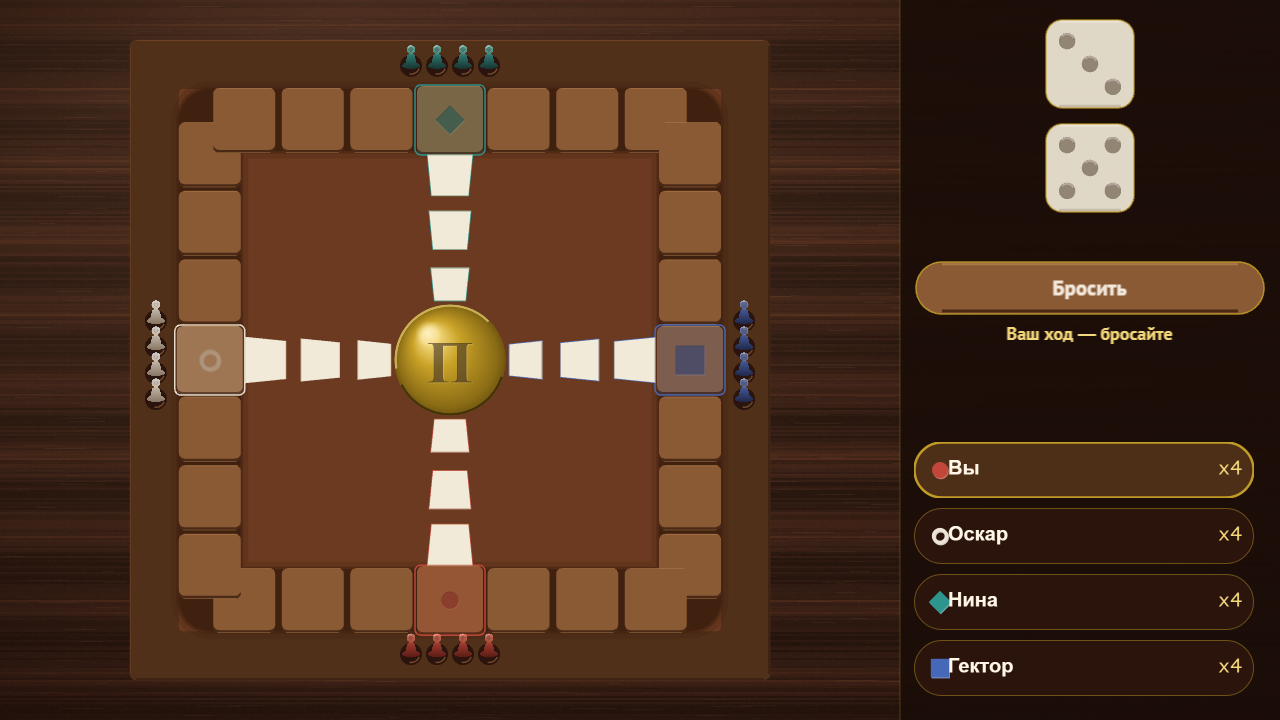
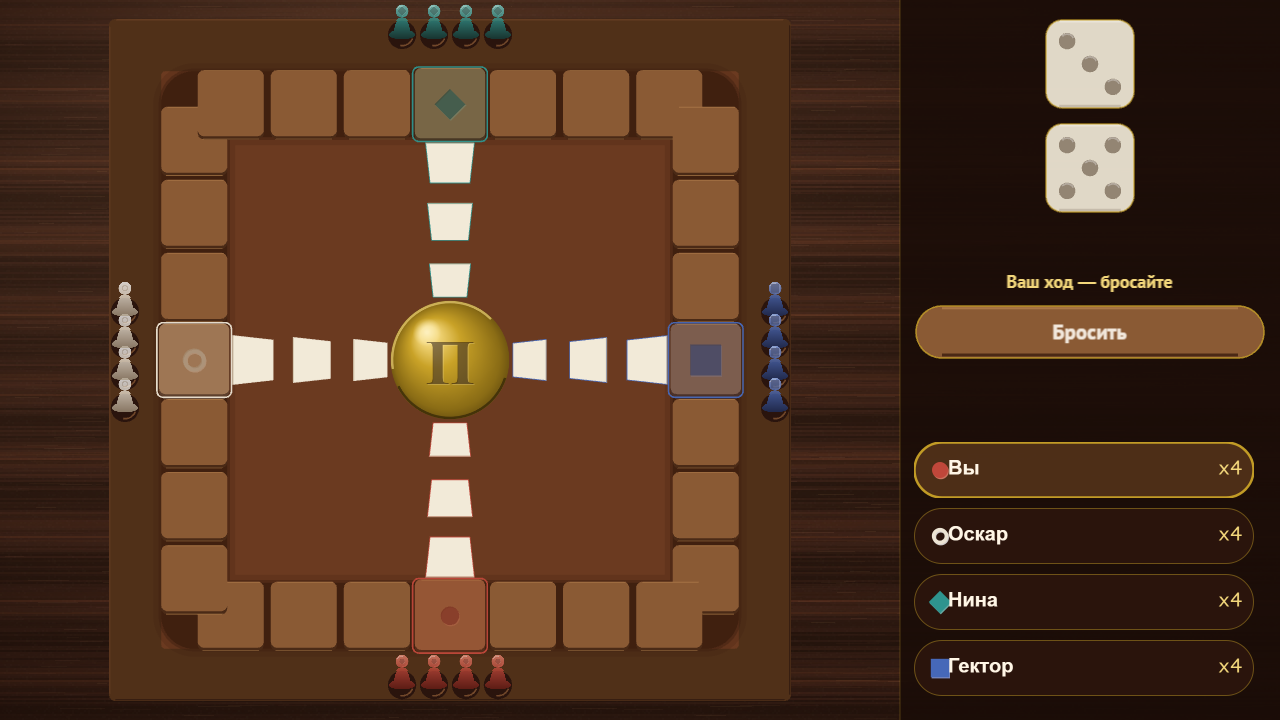
web: review round 3 - board fill 0.98, bench slots Ø53 at R+130, three-step tails, panel reading order (#6)

diff --git a/web/src/render/board-view.ts b/web/src/render/board-view.ts
@@ -172,10 +172,10 @@ export function createBoardView(initial: BoardGeometry, textures: GameTextures):
   }
 
   /**
-   * §4 home tails: three separate porcelain steps per tail (104 → 96 → 88),
-   * narrowing toward the centre, each capped inside the corner tile's inner
-   * edge (design 414) and clear of the medallion (design 118) so the three
-   * cells read distinctly.
+   * §4 home tails: exactly THREE porcelain steps per tail (104 → 96 → 88),
+   * narrowing toward the centre. Spans ±0.36 of the step size leave visible
+   * grooves between steps; the first starts inboard of the corner tile's inner
+   * edge (design 414), the last clears the medallion (design 118).
    */
   function drawHomes(): void {
     const { scale: k, center } = geometry;
@@ -185,13 +185,13 @@ export function createBoardView(initial: BoardGeometry, textures: GameTextures):
       const look = PLAYERS[homes[0].playerIndex];
       for (const home of homes) {
         points.set(home.cellIndex, { x: home.x, y: home.y });
-        addShadow(home.x, home.y, home.size * 1.02, 0.18);
+        addShadow(home.x, home.y, home.size * 0.98, 0.16);
         const d = Math.hypot(home.x - center.x, home.y - center.y);
         const u = normalize({ x: home.x - center.x, y: home.y - center.y });
         const perp = { x: -u.y, y: u.x };
         const s = home.size;
-        const radiusOuter = Math.min(d + s * 0.4, cellInner);
-        const radiusInner = Math.max(d - s * 0.4, medallionEdge);
+        const radiusOuter = Math.min(d + s * 0.36, cellInner);
+        const radiusInner = Math.max(d - s * 0.36, medallionEdge);
         const at = (radius: number, halfWidth: number, sign: number): Point => ({
           x: center.x + u.x * radius + perp.x * halfWidth * sign,
           y: center.y + u.y * radius + perp.y * halfWidth * sign,
@@ -204,15 +204,11 @@ export function createBoardView(initial: BoardGeometry, textures: GameTextures):
         ];
         tailsG.poly(poly).fill(COLORS.ivory);
         tailsG.poly(poly).stroke({ width: 1.6 * k, color: look.color, alpha: 0.9 });
-        // thickness on the outer edge away from the light, lit inner rim (§3)
+        // one thickness line under the outer edge, away from the light (§3)
         tailsG
           .moveTo(poly[0].x, poly[0].y)
           .lineTo(poly[1].x, poly[1].y)
           .stroke({ width: 2.6 * k, color: COLORS.ivoryDeep, alpha: 0.6 });
-        tailsG
-          .moveTo(poly[2].x, poly[2].y)
-          .lineTo(poly[3].x, poly[3].y)
-          .stroke({ width: 1.4 * k, color: COLORS.cellLight, alpha: 0.45 });
       }
     }
   }
@@ -225,12 +221,12 @@ export function createBoardView(initial: BoardGeometry, textures: GameTextures):
     medallion.position.set(center.x - diameter / 2, center.y - diameter / 2);
   }
 
-  /** §4 benches: four recessed holes with rim light. */
+  /** §4 benches: four recessed seats Ø53 with rim light. */
   function drawBenchSlots(): void {
     const { scale: k } = geometry;
     for (const benches of geometry.benches) {
       for (const slot of benches) {
-        const r = 22 * k;
+        const r = 26.5 * k;
         benchesG.circle(slot.x, slot.y, r).fill(COLORS.engraved);
         strokeArc(benchesG, slot.x, slot.y - 1 * k, r * 0.8, Math.PI * 0.12, Math.PI * 0.55, {
           width: 3 * k,

diff --git a/web/src/render/board-geometry.ts b/web/src/render/board-geometry.ts
@@ -31,8 +31,11 @@ export const ENGINE_CORNER_TO_VISUAL = [2, 3, 0, 1] as const;
 
 const PITCH = (2 * RING_RADIUS) / 7;
 const HOME_SHRINK = 0.23;
-const BENCH_OFFSET = RING_RADIUS + 108;
-const BENCH_GAP = 52;
+// §4 benches, round-3 revision: slots Ø53 fit the 48px disc; spacing 60 keeps
+// Ø53 discs apart; the row moved out to R+130 so the seated pawn clears the
+// corner cell's outer edge while the slot stays inside the outer rectangle
+const BENCH_OFFSET = RING_RADIUS + 130;
+const BENCH_GAP = 60;
 
 export interface RingCellPosition {
   cellIndex: number;
@@ -81,7 +84,9 @@ export interface BoardGeometry {
 const topology = new BoardTopology(DEFAULT_CONFIG);
 
 export function createBoardGeometry(width: number, height: number): BoardGeometry {
-  const scale = (Math.min(width, height) * 0.92) / BOARD_DESIGN_SIZE;
+  // 0.98: the drawn board must fill ≥ 0.92 of the smaller screen side
+  // across all §7 aspect classes (art review round 3)
+  const scale = (Math.min(width, height) * 0.98) / BOARD_DESIGN_SIZE;
   const center = { x: width / 2, y: height / 2 };
   const project = (point: Point): Point => ({ x: center.x + point.x * scale, y: center.y + point.y * scale });
 

diff --git a/web/src/render/pawns.ts b/web/src/render/pawns.ts
@@ -10,8 +10,8 @@ const DESIGN_HEIGHT = 112;
 const ANCHOR_Y = 97 / DESIGN_HEIGHT;
 const BRASS_HINT = 0xf3d77b;
 
-/** §5 size and alpha hierarchy per pawn state. BENCH sits inside the Ø44 slot (art-direction §12). */
-const STATE_SCALE = { BENCH: 0.45, NEWBORN: 1, FIELDER: 1, HOMER: 0.8 } as const;
+/** §5 size and alpha hierarchy per pawn state. BENCH: doc's 0.62, now inside Ø53 slots (§12.3a). */
+const STATE_SCALE = { BENCH: 0.62, NEWBORN: 1, FIELDER: 1, HOMER: 0.8 } as const;
 const STATE_ALPHA = { BENCH: 0.75, NEWBORN: 1, FIELDER: 1, HOMER: 0.72 } as const;
 const LIFT_SELECTED = 12; // §5 selected lift, design px
 const PULSE_PERIOD_MS = 1600; // §6 dice pulse rhythm reused for the newborn ring

diff --git a/web/src/render/hud.ts b/web/src/render/hud.ts
@@ -462,8 +462,9 @@ function strokeArc(
           size: diceSize,
         }));
         sumChip.position.set(panelX + panelWidth / 2, dice[dice.length - 1].y + diceSize + 26 * pad);
-        rollButton.position.set(panelX + panelWidth / 2, sumChip.y + 50 * pad);
-        message.position.set(panelX + panelWidth / 2, rollButton.y + 46 * pad);
+        // reading order (round 3): dice → state line → action
+        message.position.set(panelX + panelWidth / 2, sumChip.y + 44 * pad);
+        rollButton.position.set(panelX + panelWidth / 2, message.y + 50 * pad);
 
         // player list fills the rest at phone-readable row height (56 * pad)
         const rowHeight = 56 * pad;
